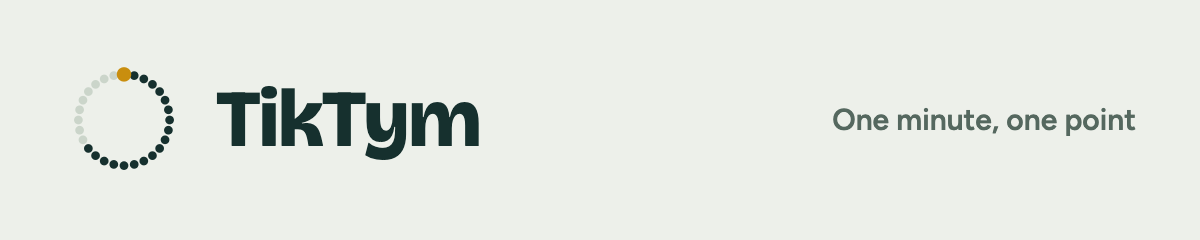
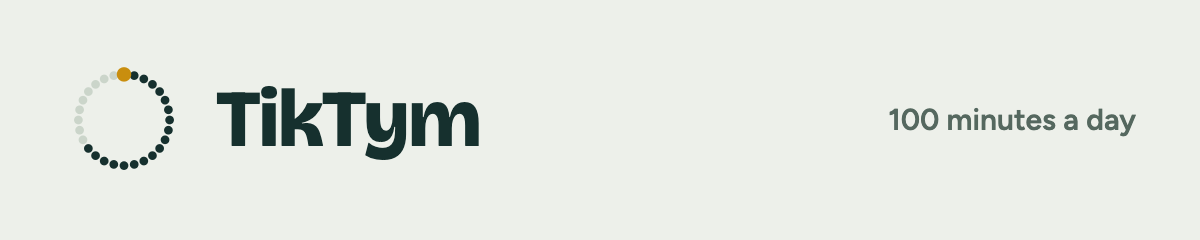
Brand line in the emails: new header, and tips that count towards each person's own daily total

Changed region(s): [[0.6783, 0.4375, 0.9558, 0.5833]]

diff --git a/functions/src/mail.ts b/functions/src/mail.ts
@@ -78,7 +78,7 @@ function practicesCard(ps: Practice[], per = 'a day'): string {
   return `<table role="presentation" width="100%" cellpadding="0" cellspacing="0" border="0" style="margin:0 0 8px;background:${BG};border:1px solid ${LINE};border-radius:12px;font-family:${FONT};">
         ${rows}
       </table>
-      <p style="margin:0 0 22px;font-size:14px;color:${INK2};font-family:${FONT};"><strong style="color:${GOLD};">${total} points a day</strong> · one minute, one point</p>`;
+      <p style="margin:0 0 22px;font-size:14px;color:${INK2};font-family:${FONT};"><strong style="color:${GOLD};">${total} minutes a day</strong> · your productive life</p>`;
 }
 
 /** Short tips with gold numbers, in TikTym's voice. */
@@ -105,7 +105,7 @@ function frame(o: { title: string; body: string[]; why: string; unsubscribe: str
 <table role="presentation" width="100%" cellpadding="0" cellspacing="0" border="0" style="background:${BG};padding:24px 0;">
   <tr><td align="center" style="padding:0 12px;">
     <table role="presentation" width="100%" cellpadding="0" cellspacing="0" border="0" style="max-width:600px;background:${SURFACE};border:1px solid ${LINE};border-radius:16px;overflow:hidden;">
-      <tr><td style="padding:0;"><img src="https://tiktym.com/email/header.png" width="600" alt="TikTym · One minute, one point" style="display:block;width:100%;max-width:600px;height:auto;border:0;"></td></tr>
+      <tr><td style="padding:0;"><img src="https://tiktym.com/email/header.png" width="600" alt="TikTym · 100 minutes a day" style="display:block;width:100%;max-width:600px;height:auto;border:0;"></td></tr>
       <tr><td style="padding:28px 32px 8px;font-family:${FONT};color:${INK};">
         <h1 style="margin:0 0 16px;font-family:${DISPLAY};font-size:28px;line-height:1.15;font-weight:800;letter-spacing:-0.02em;color:${INK};">${o.title}</h1>
         ${o.body.join('\n        ')}
@@ -126,8 +126,9 @@ const unsubscribeHeaders = (url: string) => ({ 'List-Unsubscribe': `<${url}>`, '
 
 const plural = (n: number, w: string) => `${n} ${w}${n === 1 ? '' : 's'}`;
 
-const WELCOME_TIPS: [string, string][] = [
-  ['Every minute is a point.', 'Ten minutes on a hectic day still counts.'],
+/** The welcome's three tips; the first uses the person's own daily total (100 is only the suggested start). */
+const welcomeTips = (total: number): [string, string][] => [
+  [`Every minute counts towards your ${total}.`, 'Ten minutes on a hectic day still counts.'],
   ['Busy days carry forward.', 'Missed minutes move to the next day, up to two days of each practice (change it in Setup), so a bad week never becomes a mountain.'],
   ['Tap ▶ for a focus timer.', 'It logs the minutes for you when you stop.'],
 ];
@@ -141,7 +142,7 @@ export function welcomeEmail(o: { name: string; practices: Practice[]; unsubscri
     body: [
       para(`Thanks for starting TikTym. Here's what you're making time for, ${plural(o.practices.length, 'practice')} in all:`),
       practicesCard(o.practices),
-      tips(WELCOME_TIPS),
+      tips(welcomeTips(total)),
       button('Open TikTym', appLink('welcome')),
       para('<strong>Add it to your home screen</strong> so it opens like an app: on iPhone, open it in Safari and tap Share › Add to Home Screen; on Android, tap Install app in Chrome.'),
       para("I built TikTym because I couldn't find time to learn alongside a full-time job. If anything is confusing, or you'd like something added, just reply to this email. I read every one."),
@@ -153,8 +154,8 @@ export function welcomeEmail(o: { name: string; practices: Practice[]; unsubscri
     hi.replace(/&amp;/g, '&'), '',
     `Thanks for starting TikTym. Here's what you're making time for, ${plural(o.practices.length, 'practice')} in all:`,
     ...o.practices.map(p => `- ${p.name}: ${p.minutes} min a day`),
-    `${total} points a day: one minute, one point.`, '',
-    ...WELCOME_TIPS.map(([lead, rest], n) => `${n + 1}. ${lead} ${rest.replace('▶', 'the play button')}`), '',
+    `${total} minutes a day: your productive life.`, '',
+    ...welcomeTips(total).map(([lead, rest], n) => `${n + 1}. ${lead} ${rest.replace('▶', 'the play button')}`), '',
     `Open TikTym: ${appLink('welcome')}`, '',
     'Add it to your home screen so it opens like an app: on iPhone, open it in Safari and tap Share > Add to Home Screen; on Android, tap Install app in Chrome.', '',
     "I built TikTym because I couldn't find time to learn alongside a full-time job. If anything is confusing, or you'd like something added, just reply to this email. I read every one.", '',

diff --git a/tests/mail.test.ts b/tests/mail.test.ts
@@ -52,7 +52,7 @@ describe('the emails (NOTIF-03, NOTIF-04)', () => {
   it('the welcome greets by name and lists the chosen practices, in their colours, with the daily total', () => {
     const e = welcomeEmail({ name: 'Asha', practices: practices.map((p, i) => ({ ...p, color: ['#1F8A70', '#3E5BA9', '#8A4FA3'][i] })), unsubscribe });
     expect(e.subject).toBe('Welcome to TikTym, Asha');
-    for (const s of ['Welcome to TikTym, Asha', '3 practices in all:', '>Meditation</td>', '10 min a day', 'background:#8A4FA3', '70 points a day', 'Busy days carry forward.', 'Add it to your home screen', 'reply to this email', 'https://app.tiktym.com/?utm_source=email', "family=Bricolage+Grotesque"])
+    for (const s of ['Welcome to TikTym, Asha', '3 practices in all:', '>Meditation</td>', '10 min a day', 'background:#8A4FA3', '70 minutes a day', 'Every minute counts towards your 70.', 'Busy days carry forward.', 'Add it to your home screen', 'reply to this email', 'https://app.tiktym.com/?utm_source=email', "family=Bricolage+Grotesque"])
       expect(e.html).toContain(s);
     expect(e.text).toContain('- Exercise: 30 min a day');
     expect(e.text).toContain(`Unsubscribe: ${unsubscribe}`);
@@ -80,7 +80,7 @@ describe('the emails (NOTIF-03, NOTIF-04)', () => {
     expect(e.html).toContain('<strong>5 minutes of Meditation</strong>');
     expect(e.html).toContain('Start 5 minutes of Meditation');
     expect(e.html).toContain('5 min today'); // not "a day": the target itself doesn't change
-    expect(e.html).not.toContain('points a day');
+    expect(e.html).not.toContain('minutes a day</strong>'); // the nudge shows no daily total
   });
 
   it('escapes names and practice names, and only uses real colours', () => {

diff --git a/to-do.md b/to-do.md
@@ -81,7 +81,6 @@ Day-to-day outreach (tasks by date, messages, tracking links, share and feedback
 
 - [ ] **You:** Google Search Console (verified 9 October): submit `sitemap.xml` under Sitemaps, and use URL inspection › Request indexing for https://tiktym.com/ and https://tiktym.com/updates/.
 - [ ] **You:** Bing Webmaster Tools: Import from Google Search Console (Bing feeds ChatGPT search, Copilot and DuckDuckGo).
-- [ ] **Claude:** the new brand line in the emails: header image and tips (NOTIF-03).
 - [ ] **Claude:** new LinkedIn cover, post image and video, and OUTREACH.md messages with the new line.
 - [ ] **You:** post on the TikTym LinkedIn page 2 or 3 times a week (page set up 8 October) (building in public, "busy weeks carry forward", monthly progress with Insights screenshots).
 - [ ] **You:** run a 30-day learning challenge with your network, using TikTym.
@@ -136,6 +135,7 @@ Decided 10 October 2026: everything on by default, each switchable off in Setup 
 
 Move items here when they're finished, newest first, so there's a record.
 
+- [x] New brand line in the emails: header image "TikTym · 100 minutes a day", the welcome's daily total "N minutes a day · your productive life", and tip 1 "Every minute counts towards your N" using each person's own total (NOTIF-03), 10 October 2026
 - [x] New brand line on the website: title and link preview, hero ("100 minutes a day for your productive life" with 30/30/30/10), how it works ("counts towards your 100"), the professionals section (wellbeing, not only learning; "Start your 100 minutes today"; 100 minutes as the suggested start), the closing, search description, llms.txt and structured data (GTM-04). Not deployed yet, 10 October 2026
 - [x] New brand line in the app: sign-in tagline, install description, link preview text and image ("100 minutes a day for your productive life", 30 to move · 30 to read · 30 to grow · 10 to breathe), share message, and the progress card ("for a productive life", "100 minutes a day") (AUTH-01, GTM-01, SHARE-02), 10 October 2026
 - [x] Removed the one-time notice on Today (Praveen tells existing users himself); the Privacy Policy now promises to announce significant changes "in the app or by email or message", 10 October 2026
